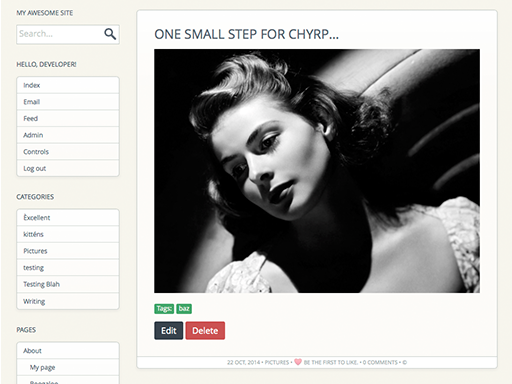
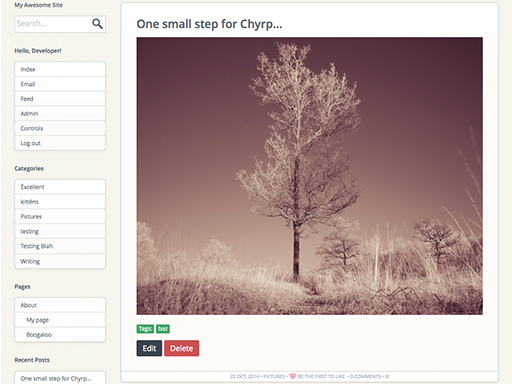
Themes: tweaks to blog and admin themes

diff --git a/themes/blossom/stylesheets/screen.css b/themes/blossom/stylesheets/screen.css
@@ -38,31 +38,28 @@ p {                                                 line-height: 1.4;
                                                     margin: 0em 0em 1em 0em }
     p:last-child, p:empty {                         margin-bottom: 0em }
 h1 {                                                font-size: 2em;
-                                                    font-weight: normal;
-                                                    text-transform: uppercase;
+                                                    font-weight: bold;
                                                     margin: 0.5em 0em;
                                                     padding: 0em;
                                                     line-height: 1 }
     h1.banner {                                     font-size: 0.75em;
                                                     margin: 1.33em 0em }
 h2 {                                                font-size: 1.5em;
-                                                    font-weight: normal;
-                                                    text-transform: uppercase;
+                                                    font-weight: bold;
                                                     margin: 0.67em 0em;
                                                     padding: 0em;
                                                     line-height: 1 }
 h3 {                                                font-size: 1em;
-                                                    font-weight: normal;
-                                                    text-transform: uppercase;
+                                                    font-weight: bold;
                                                     margin: 1em 0em;
                                                     padding: 0em;
                                                     line-height: 1 }
-    h3.ribbon {                                     margin: 0em }
+    h3.ribbon {                                     font-weight: normal;
+                                                    margin: 0em }
     h3.archive {                                    margin-top: 1em;
                                                     clear: both }
 h4 {                                                font-size: 0.75em;
-                                                    font-weight: normal;
-                                                    text-transform: uppercase;
+                                                    font-weight: bold;
                                                     margin: 1.33em 0em;
                                                     padding: 0em;
                                                     line-height: 1 }

diff --git a/admin/themes/default/style.css b/admin/themes/default/style.css
@@ -411,6 +411,7 @@ table tbody tr td.category_show {               text-align: center }
 table thead tr th.tag_name,
 table tbody tr td.tag_name {                    text-align: left }
 table tbody tr td.tag_count {                   text-align: center }
+td.post_status {                                background-color: #f2fbff }
 tr.private td.post_status {                     background-color: #faebe4 }
 tr.public td.post_status {                      background-color: #ebfae4 }
 tr.denied td.comment_status {                   background-color: #faebe4 }
